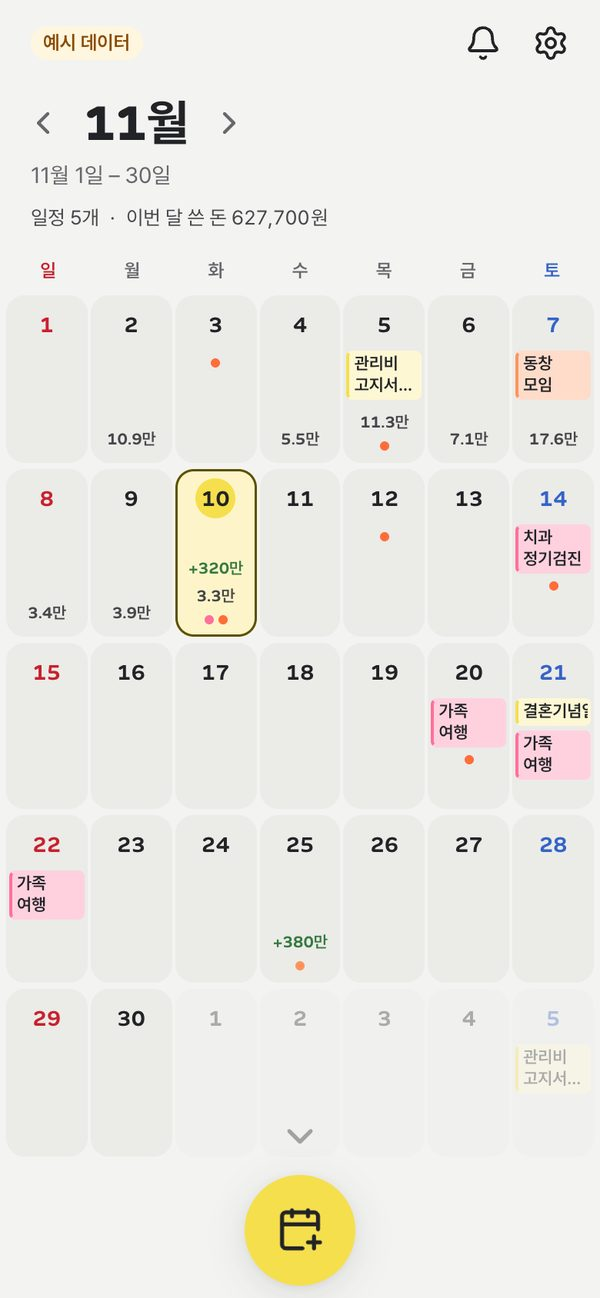
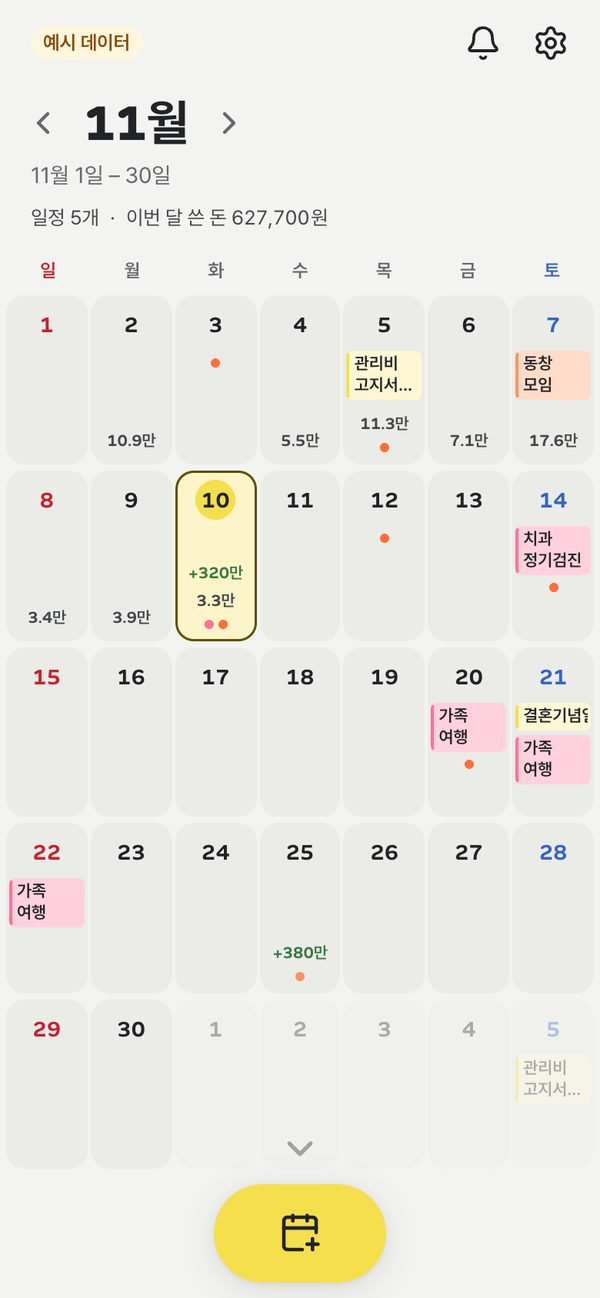
달력 가운데 일정 추가 버튼을 가로로 긴 타원으로 — 112 × 64px
동그라미를 1.2배로 키우던 것을, 가운데로 옮겨 갈 때 너비·높이를 함께 바꿔 가로로 긴 타원(양 끝 둥근 알약)이 되게 했다.
크기는 새 토큰 fab-wide-w·fab-wide-h. 아래 화살표 자리와 달력 아래 여백도 이 높이를 따른다.

diff --git a/apps/web/src/app/shell.css b/apps/web/src/app/shell.css
@@ -181,7 +181,7 @@ div.bar-mini { display: flex; align-items: center; justify-content: center; gap:
   box-shadow: var(--shadow-float);
   color: var(--on-primary);
   pointer-events: auto;
-  transition: transform var(--dur-press) var(--ease-press), translate var(--dur-tab) var(--ease-drawer), scale var(--dur-tab) var(--ease-drawer), width var(--dur-tab) var(--ease-drawer), margin var(--dur-tab) var(--ease-drawer), opacity var(--dur-press) ease;
+  transition: transform var(--dur-press) var(--ease-press), translate var(--dur-tab) var(--ease-drawer), width var(--dur-tab) var(--ease-drawer), height var(--dur-tab) var(--ease-drawer), margin var(--dur-tab) var(--ease-drawer), opacity var(--dur-press) ease;
 }
 .fab svg { width: 26px; height: 26px; stroke-width: 2; }
 .fab:active { transform: scale(0.94); }
@@ -190,11 +190,13 @@ div.bar-mini { display: flex; align-items: center; justify-content: center; gap:
 @keyframes fab-icon-in { from { opacity: 0; transform: scale(0.6) rotate(-45deg); } }
 /* 주된 일이 없는 화면(플랜·체크·설정): 버튼이 줄어들며 빠지고 캡슐이 그 자리까지 넓어진다. 알약도 같은 박자로 따라간다 */
 .navbar.solo .fab { width: 0; margin-left: calc(var(--nav-gap) * -1); opacity: 0; transform: scale(0.6); pointer-events: none; }
-/* 달력 첫 화면(달력만 보일 때, <html data-cal="focus">): 캡슐은 아래로 내려가 숨고, 일정 추가 버튼이 가운데로 옮겨 가며 커진다.
-   모아 보기로 내리면(data-cal="open") 같은 박자로 제자리. 누를 때 줄어드는 transform 과 겹치지 않게 translate·scale 따로 쓴다 */
+/* 달력 첫 화면(달력만 보일 때, <html data-cal="focus">): 캡슐은 아래로 내려가 숨고, 일정 추가 버튼이 가운데로 옮겨 가며
+   가로로 긴 타원(fab-wide-w × fab-wide-h)으로 커진다. 모아 보기로 내리면(data-cal="open") 같은 박자로 제자리 동그라미.
+   누를 때 줄어드는 transform 과 겹치지 않게 자리는 translate 로 옮긴다 */
 @media (max-width: 1023px) {
   :root[data-cal="focus"] .tabbar { translate: 0 calc(100% + var(--nav-inset) + env(safe-area-inset-bottom, 0px)); opacity: 0; visibility: hidden; pointer-events: none; transition: translate var(--dur-tab) var(--ease-drawer), opacity var(--dur-tab) ease, visibility 0s linear var(--dur-tab); }
-  :root[data-cal="focus"] .fab { translate: calc(var(--nav-h) / 2 - var(--nav-w) / 2) -4px; scale: 1.2; }
+  :root[data-cal="focus"] .fab { width: var(--fab-wide-w); height: var(--fab-wide-h); translate: calc(var(--fab-wide-w) / 2 - var(--nav-w) / 2) 0; }
+  :root[data-cal="focus"] .fab svg { width: 28px; height: 28px; }
 }
 @media (prefers-reduced-transparency: reduce) {
   .tabbar, .topbar::before { background: var(--surface); -webkit-backdrop-filter: none; backdrop-filter: none; }

diff --git a/apps/web/src/app/globals.css b/apps/web/src/app/globals.css
@@ -388,7 +388,7 @@ button, a, [role="button"], .chip, .tab, .seg button, .preset, .db {
 /* ---------- 달력 화면의 두 칸: 달력(첫 화면) ↔ 아래 모아 보기 (components/calendarStage.ts) ---------- */
 .cal-more { margin-top: 28px; }
 /* 아래가 더 있다는 반투명 화살표: 가운데로 커진 일정 추가 버튼 바로 위. 모아 보기를 한 번 내려 보면 다시 두지 않는다 */
-.cal-down { position: fixed; left: 50%; bottom: calc(var(--nav-inset) + env(safe-area-inset-bottom, 0px) + var(--nav-h) * 1.2 + 12px); z-index: 29; display: grid; place-items: center; width: 44px; height: 32px; margin-left: -22px; padding: 0; border: 0; background: transparent; color: var(--text); opacity: 0.38; animation: cal-down 1.8s var(--ease-out) infinite; }
+.cal-down { position: fixed; left: 50%; bottom: calc(var(--nav-inset) + env(safe-area-inset-bottom, 0px) + var(--fab-wide-h) + 12px); z-index: 29; display: grid; place-items: center; width: 44px; height: 32px; margin-left: -22px; padding: 0; border: 0; background: transparent; color: var(--text); opacity: 0.38; animation: cal-down 1.8s var(--ease-out) infinite; }
 .cal-down svg { width: 28px; height: 28px; stroke-width: 2.2; }
 @keyframes cal-down { 0%, 100% { transform: translateY(0); } 50% { transform: translateY(5px); } }
 @media (max-width: 1023px) {
@@ -399,7 +399,7 @@ button, a, [role="button"], .chip, .tab, .seg button, .preset, .db {
     display: flex;
     flex-direction: column;
     min-height: calc(100svh - var(--topbar-btn) - 12px - env(safe-area-inset-top, 0px));
-    padding-bottom: calc(var(--nav-h) * 1.2 + var(--nav-inset) * 2 + env(safe-area-inset-bottom, 0px));
+    padding-bottom: calc(var(--fab-wide-h) + var(--nav-inset) * 2 + env(safe-area-inset-bottom, 0px));
     scroll-snap-align: start;
   }
   .cal-stage .page-head { margin-bottom: 14px; }

diff --git a/apps/web/src/app/tokens.css b/apps/web/src/app/tokens.css
@@ -84,6 +84,8 @@
   --nav-h: 60px;
   --nav-inset: 10px;
   --nav-gap: 8px;
+  --fab-wide-w: 112px;
+  --fab-wide-h: 64px;
   --pass-peek: 58px;
   --radius-card: 24px;
   --radius-sheet: 28px;

diff --git a/CHANGELOG.md b/CHANGELOG.md
@@ -17,7 +17,7 @@
 - 체크와 플랜 맨 위가 토스·뱅크샐러드처럼 바뀌었어요. 화면 머리에는 달과 기간만 두고, 체크는 첫 카드에 **"11건 남았어요"**와 막대, 남은 묶음 줄(옮길 돈 2건 · 600,000원 ›…)을 둬요 — 줄을 누르면 그 카드로 내려가요. 플랜은 "월급이 나뉘는 곳" 카드가 "926,100원 남았어요"를 말하고, "다른 달에서 불러오기"는 화면 맨 아래 한 줄 카드 "다른 달에서 항목 가져오기"로 옮겼어요.
 - 홈 "이번 달 할 일"이 체크 요약과 같은 모양이 됐어요: 큰 숫자 **"11건 남았어요"**와 막대, 기한 지난 일 한 줄, 그리고 급한 순 **3건만** 보여요(전엔 6건). 나머지는 맨 아래 "남은 일 11건 모두 보기 ›"로 체크에서 봐요.
 - 홈 맨 위의 결론 문장("현빈 ISA로 옮길 돈 외 2건이 기한을 넘겼어요.")을 토스처럼 **하나씩 도착하는 알림 카드**로 바꿨어요. 지금 알아야 할 것(기한 넘김 · 잘 나갔는지 확인 · 오늘 월급날/옮길 돈 · 모두 마침 · 생활비 빠름 · 다음 월급날)을 최대 3개까지, 카드가 글과 함께 작은 크기에서 커지며 나타나고, 다음 알림이 오면 먼저 온 알림이 아래로 내려가요(가장 중요한 알림이 맨 위). 앱을 켜 둔 동안 한 번만 움직이고, 누르면 체크(생활비는 가계부)로 가요. 알림은 한 번 눌러 보면 사라져요 — 기한 넘긴 일만 끝낼 때까지 남아요. 이제 모든 화면 머리에는 달과 기간만 있어요.
-- 달력 화면은 처음엔 **달력만 꽉 차요**. 아래 메뉴가 내려가 숨고 일정 추가 버튼이 가운데로 커지며 옮겨 가요. 아래로 조금 내리면 되돌아오고 더 내리면 이번 달 할 일·일정·D-day **모아 보기**와 메뉴가 나와요(모아 보기 버튼은 없앴어요). 처음 들어오면 반투명 화살표와 함께 화면이 살짝 올라가 아래가 더 있다는 것을 보여 줘요. 달력 아래 손잡이(한 주로 접기)와 안내 글은 뺐어요.
+- 달력 화면은 처음엔 **달력만 꽉 차요**. 아래 메뉴가 내려가 숨고 일정 추가 버튼이 가운데로 옮겨 가며 가로로 긴 타원으로 커져요. 아래로 조금 내리면 되돌아오고 더 내리면 이번 달 할 일·일정·D-day **모아 보기**와 메뉴가 나와요(모아 보기 버튼은 없앴어요). 처음 들어오면 반투명 화살표와 함께 화면이 살짝 올라가 아래가 더 있다는 것을 보여 줘요. 달력 아래 손잡이(한 주로 접기)와 안내 글은 뺐어요.
 - **DB 이전:** 없음
 
 - 가계부 누적 그래프를 누르면 뜨는 날짜별 금액 말풍선이 그래프 안쪽에 떠요. 위 글자를 가리지 않고, 선과 오늘 점을 덜 가리는 자리(왼쪽·오른쪽, 위·아래)를 골라요.

diff --git a/docs/design-system/components/Calendar/README.md b/docs/design-system/components/Calendar/README.md
@@ -7,7 +7,7 @@
 - **머리:** 다른 화면과 같습니다. 달 제목은 왼쪽 끝, 아래 기간 줄과 "일정 5개 · 이번 달 쓴 돈" 한 줄. 모아 보기 버튼은 두지 않습니다(모아 보기는 달력 아래에 있습니다). 월 화살표·달 고르기·기간 모아 보기를 유지합니다.
 - **두 칸 — 달력 ↔ 모아 보기 (폰·태블릿, 1024px 미만):**
   - **첫 화면은 달력만:** 머리와 달력이 위 막대 아래를 꽉 채우고, 날짜 줄이 남는 높이를 나눠 가집니다. 손잡이·안내 글은 두지 않습니다.
-  - **하단 메뉴가 비켜 줌:** 달력만 보일 때(`<html data-cal="focus">`) 캡슐은 아래로 내려가 숨고, 일정 추가 버튼이 가운데로 옮겨 가며 1.2배로 커집니다(`dur-tab`·`ease-drawer`, `translate`·`scale`만). 달력 아래에는 그 버튼 자리만큼 비워 둡니다.
+  - **하단 메뉴가 비켜 줌:** 달력만 보일 때(`<html data-cal="focus">`) 캡슐은 아래로 내려가 숨고, 일정 추가 버튼이 가운데로 옮겨 가며 가로로 긴 타원(`fab-wide-w` 112 × `fab-wide-h` 64px, 아이콘 28px)으로 커집니다(`dur-tab`·`ease-drawer`, 자리는 `translate`). 달력 아래에는 그 버튼 자리만큼 비워 둡니다.
   - **저항감 있는 넘김:** 두 칸 사이는 스크롤 스냅(`y mandatory`)입니다. 조금 끌면 달력으로 되돌아오고, 더 끌면 모아 보기 머리가 위 막대 아래에 맞춰 섭니다. 모아 보기가 길면 그 안은 자유롭게 굴립니다.
   - **메뉴가 돌아옴:** 모아 보기 위쪽이 화면 가운데를 넘으면(`data-cal="open"`) 캡슐과 버튼이 같은 박자로 제자리로 돌아옵니다. 다시 위로 올리면 또 비켜 줍니다.
   - **처음 왔을 때:** 모아 보기를 아직 내려 본 적 없는 기기에서는 가운데 버튼 바로 위에 반투명(38%) `ChevronDown`이 5px 오르내리고(누르면 모아 보기로 내려감), 들어온 지 0.7초 뒤 화면을 96px 올려 모아 보기 머리를 살짝 비춘 다음 되돌립니다(1.5초, `transform`만, 앱을 켜 둔 동안 한 번). 한 번 내려 보면 이 기기에서는 둘 다 다시 하지 않습니다(`our-money-cal-more-seen`).

diff --git a/docs/design-system/components/TabBar/README.md b/docs/design-system/components/TabBar/README.md
@@ -11,7 +11,7 @@
   - 누르는 동안 아이콘이 0.88로 줄었다가 `ease-press`로 돌아옵니다.
 - **원형 버튼:** 캡슐에서 `nav-gap` 떨어지고, 지름 `nav-h`입니다. `primary` 채움, 흰 아이콘 26px, `shadow-float`이며 누르면 0.94입니다.
   - 화면마다 주된 일 하나만 맡습니다. 홈·가계부는 "지출 기록"(`Plus`), 달력은 "일정 추가"(`CalendarPlus`, 고른 날로 시트가 열림)입니다. 플랜·체크·설정은 주된 더하기가 없어서 버튼을 두지 않습니다(플랜은 묶음마다 추가 버튼이 있습니다).
-  - **달력 첫 화면:** 달력만 보일 때는 캡슐이 아래로 내려가 숨고 원형 버튼이 가운데로 옮겨 가며 1.2배로 커집니다. 모아 보기로 내리면 제자리로 돌아옵니다([Calendar](../Calendar/README.md) "두 칸").
+  - **달력 첫 화면:** 달력만 보일 때는 캡슐이 아래로 내려가 숨고 원형 버튼이 가운데로 옮겨 가며 가로로 긴 타원(112 × 64px)으로 커집니다. 모아 보기로 내리면 제자리로 돌아옵니다([Calendar](../Calendar/README.md) "두 칸").
   - 아이콘이 바뀌면 새 아이콘이 0.6 크기·-45°에서 `dur-tab`·`ease-pop`으로 자리 잡습니다. `aria-label`은 그 일의 이름입니다.
   - 버튼이 없는 화면으로 가면 버튼이 줄어들며 빠지고(폭·간격을 `dur-tab`·`ease-drawer`로) 캡슐이 그 자리까지 넓어집니다. 알약은 칸 폭에 맞춰 같은 박자로 따라가서 옆으로 튀지 않습니다. 빠진 버튼은 누를 수 없습니다(inert).
   - 데스크톱 머리줄 버튼도 같은 규칙입니다(버튼이 없는 화면은 비웁니다).
